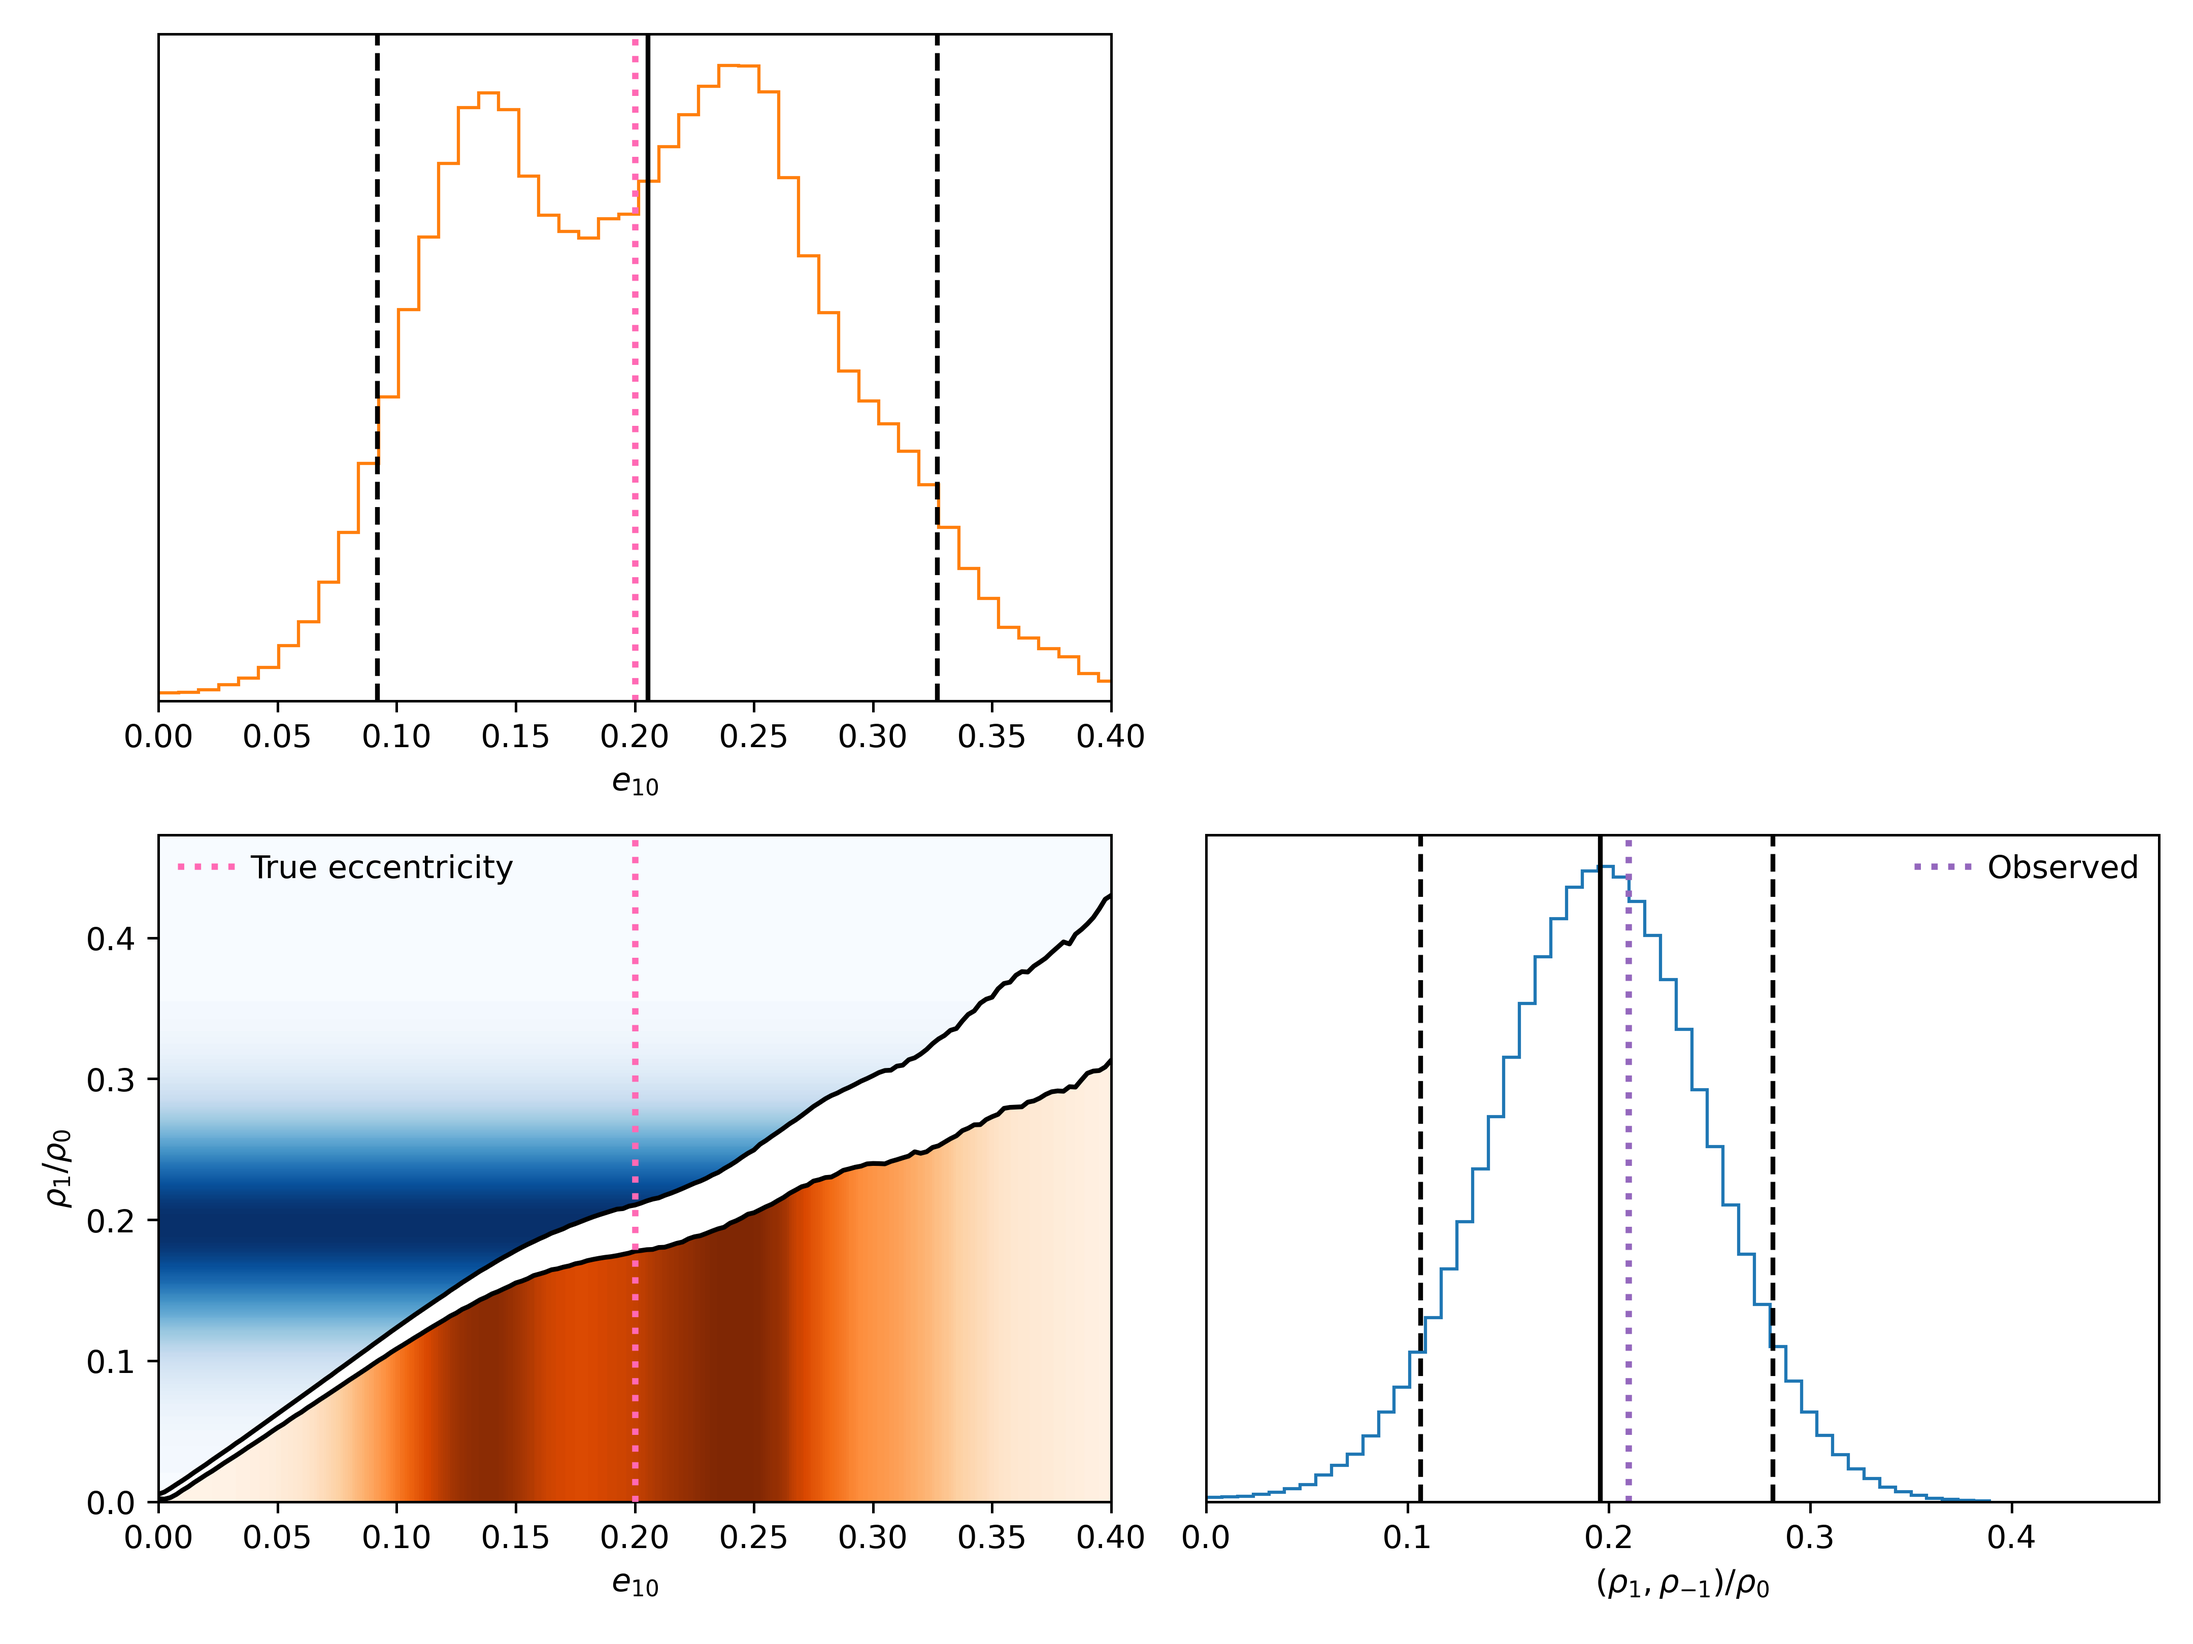
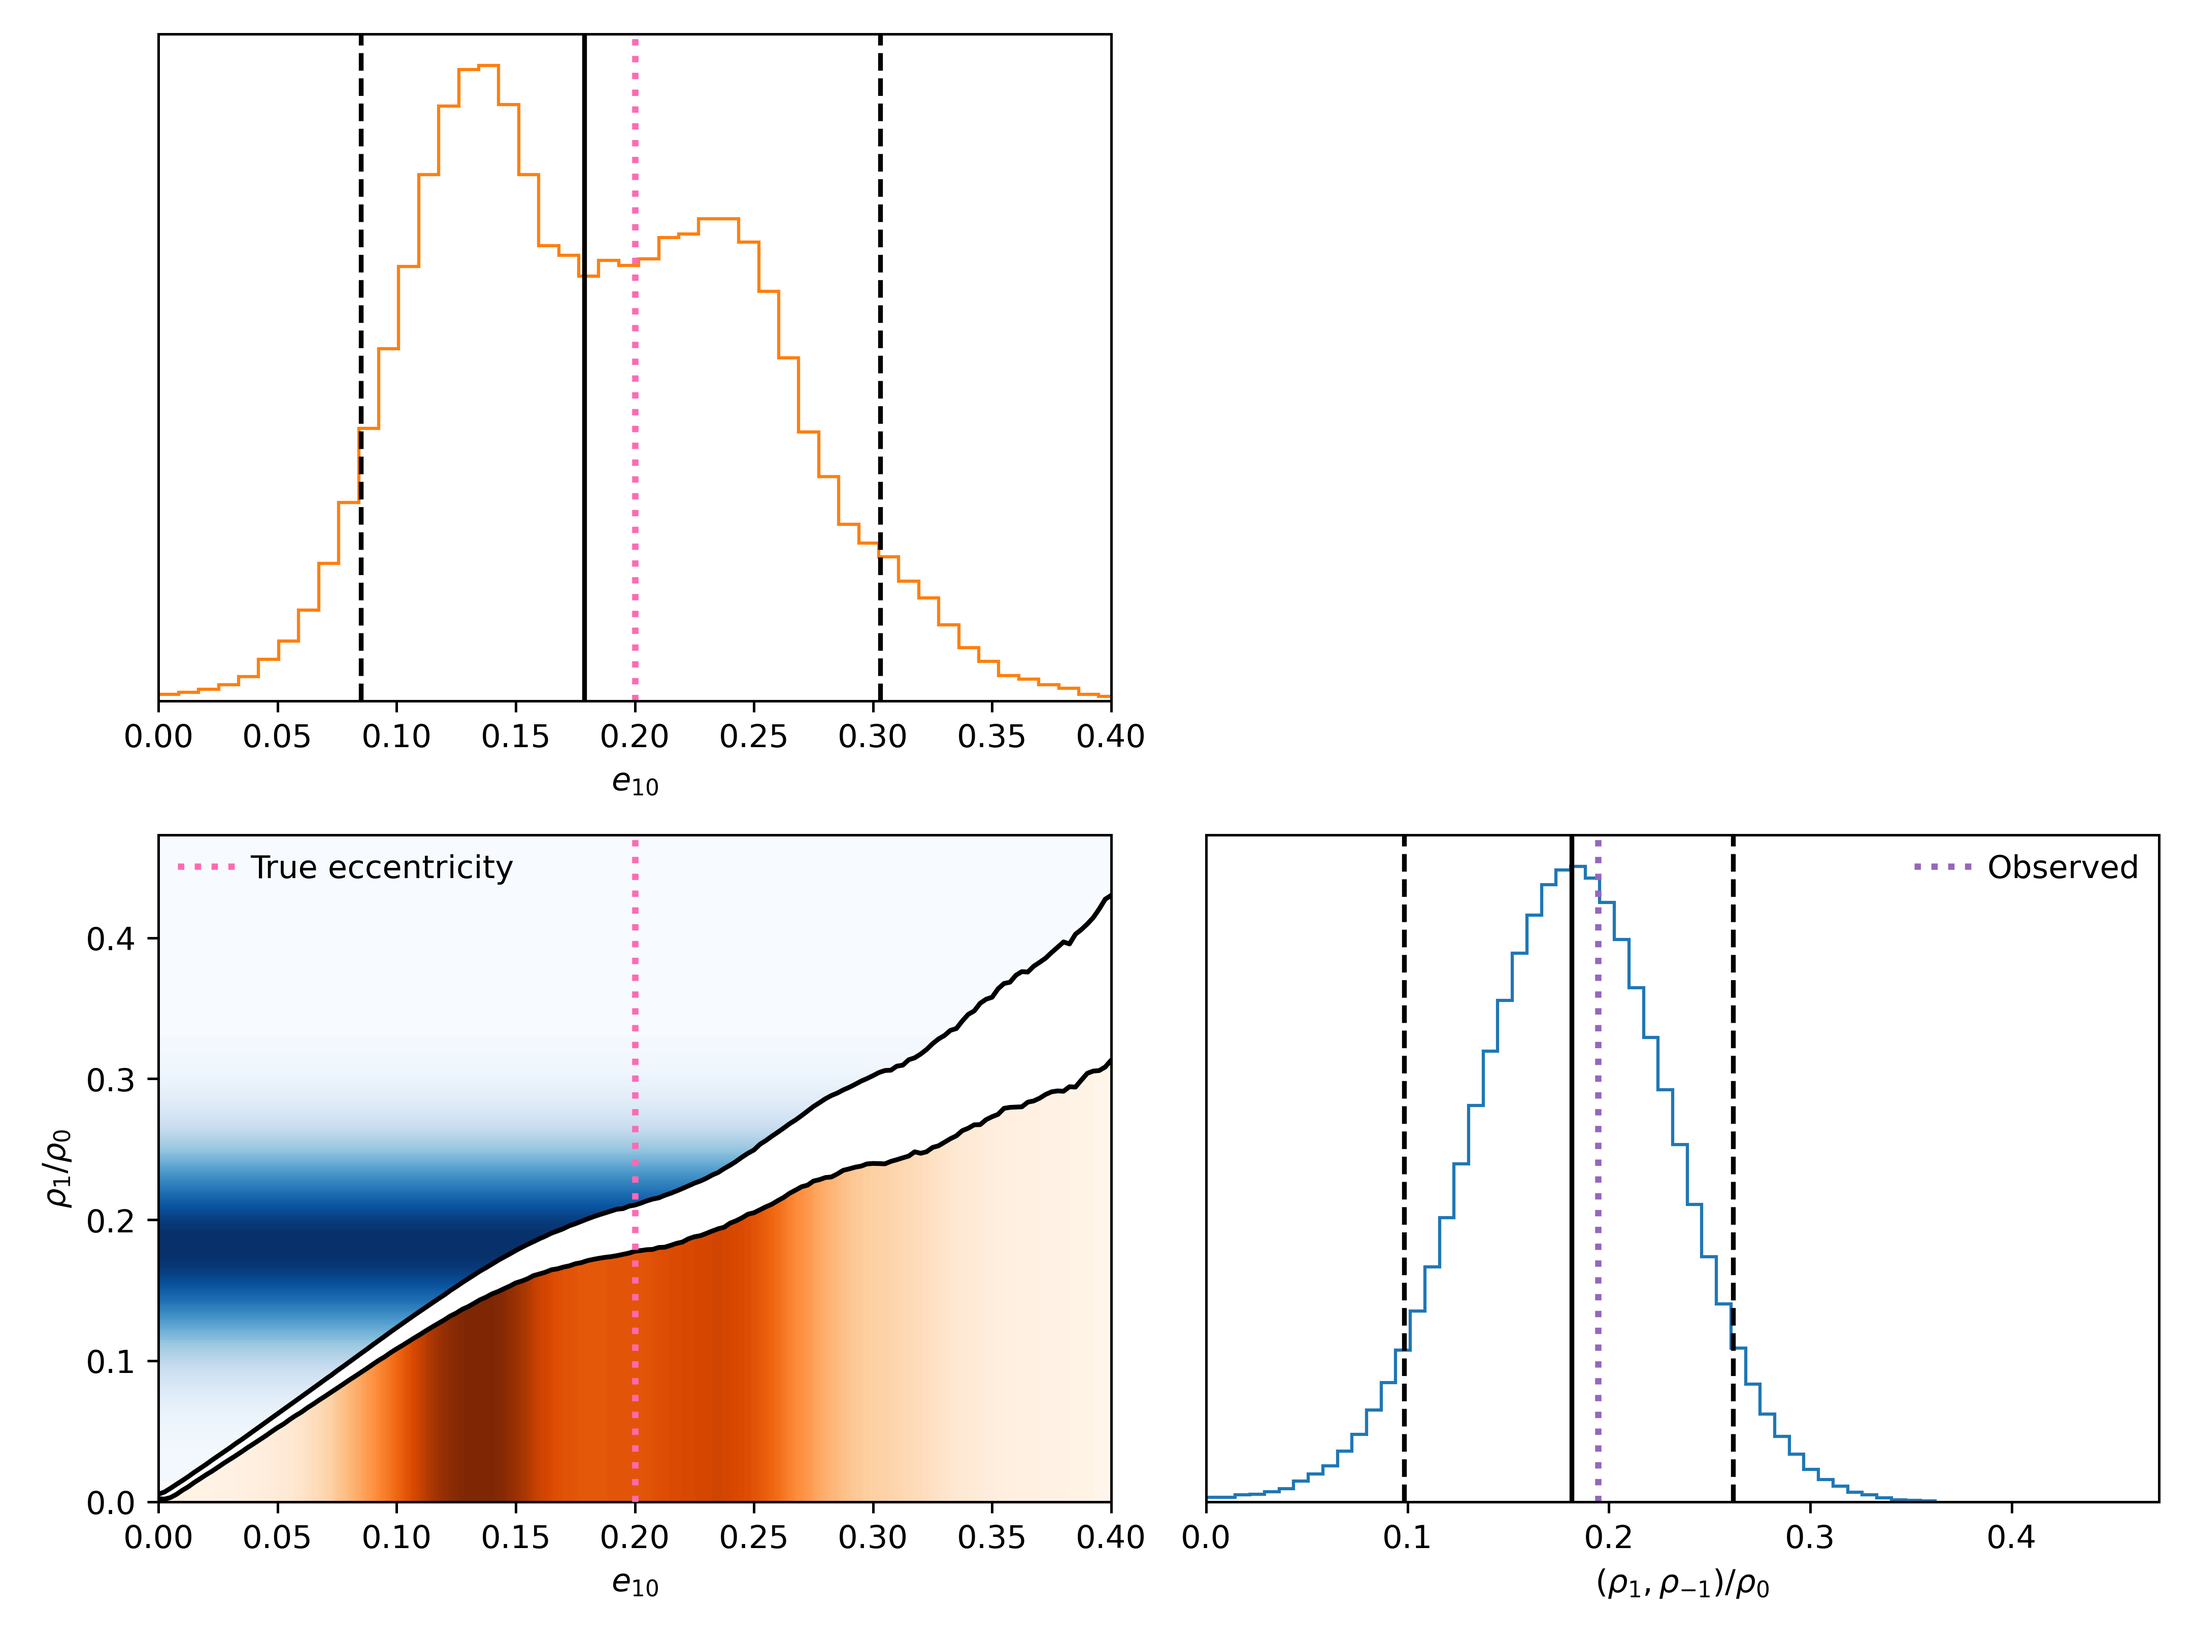
trying to enforce flat ecc prior

diff --git a/notebooks/.ipynb_checkpoints/interpolating_match-checkpoint.py b/notebooks/.ipynb_checkpoints/interpolating_match-checkpoint.py
@@ -402,7 +402,7 @@ def SNR2ecc(matches, chirp, interps, max_ecc=0.4, scaling_norms=[10, 0.035], upp
     """
 
     # Find upper and lower bounds on eccentricity for each sample
-    ecc_arr = find_ecc_range_samples(matches, chirp, interps, max_ecc=max_ecc)
+    ecc_arr = find_ecc_range_samples(matches, chirp, interps, max_ecc=max_ecc, scaling_norms=scaling_norms)
 
     # Put upper bound at max_ecc
     max_ecc *= 1+upper_lenience

diff --git a/notebooks/interpolating_match.py b/notebooks/interpolating_match.py
@@ -402,7 +402,7 @@ def SNR2ecc(matches, chirp, interps, max_ecc=0.4, scaling_norms=[10, 0.035], upp
     """
 
     # Find upper and lower bounds on eccentricity for each sample
-    ecc_arr = find_ecc_range_samples(matches, chirp, interps, max_ecc=max_ecc)
+    ecc_arr = find_ecc_range_samples(matches, chirp, interps, max_ecc=max_ecc, scaling_norms=scaling_norms)
 
     # Put upper bound at max_ecc
     max_ecc *= 1+upper_lenience
